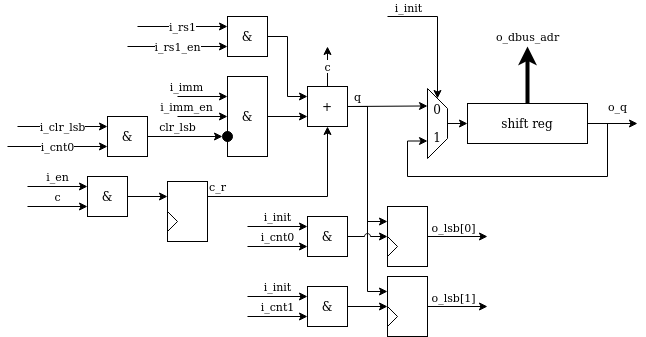
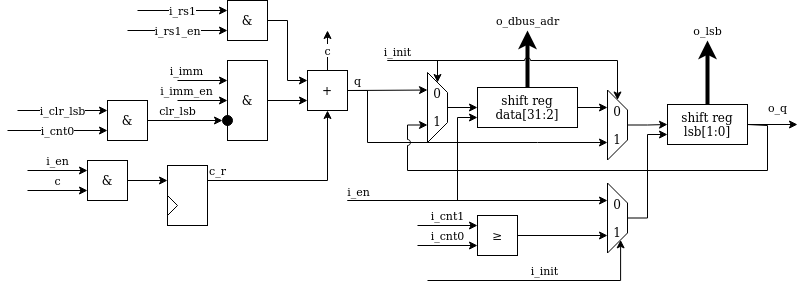
Update bufreg documentation

diff --git a/doc/index.rst b/doc/index.rst
@@ -51,7 +51,7 @@ serv_bufreg
 
 .. image:: serv_bufreg.png
 
-For two-stage operations, serv_bufreg holds data between stages. This data can be the effective address for branches or load/stores or data to be shifted for shift ops. It has a serial output for streaming out results during stage two and a parallel output that forms the dbus address. serv_bufreg also keeps track of the two lsb when calculating adresses. This is used to check for alignment errors. In order to support these different modes, the input to the shift register can come from rs1, the immediate (imm), rs1+imm or looped back from the shift register output. The latter is used for shift operations. For some operations, the LSB of the immediate is cleared before written to the shift register. bufreg also latches and exposes the two LSB bits of the data written to the shift register. These are used to check data/address alignment issues early.
+For two-stage operations, serv_bufreg holds data between stages. This data can be the effective address for branches or load/stores or data to be shifted for shift ops. It has a serial output for streaming out results during stage two and a parallel output that forms the dbus address. serv_bufreg also keeps track of the two lsb when calculating adresses. This is used to check for alignment errors. In order to support these different modes, the input to the shift register can come from rs1, the immediate (imm), rs1+imm or looped back from the shift register output. The latter is used for shift operations. For some operations, the LSB of the immediate is cleared before written to the shift register. The two LSB of the shift register are special. When the shift register is loaded, these two get written first before the rest of the register is filled up. This allows the memory interface to check data/address alignment early.
 
 .. image:: serv_bufreg_int.png
 